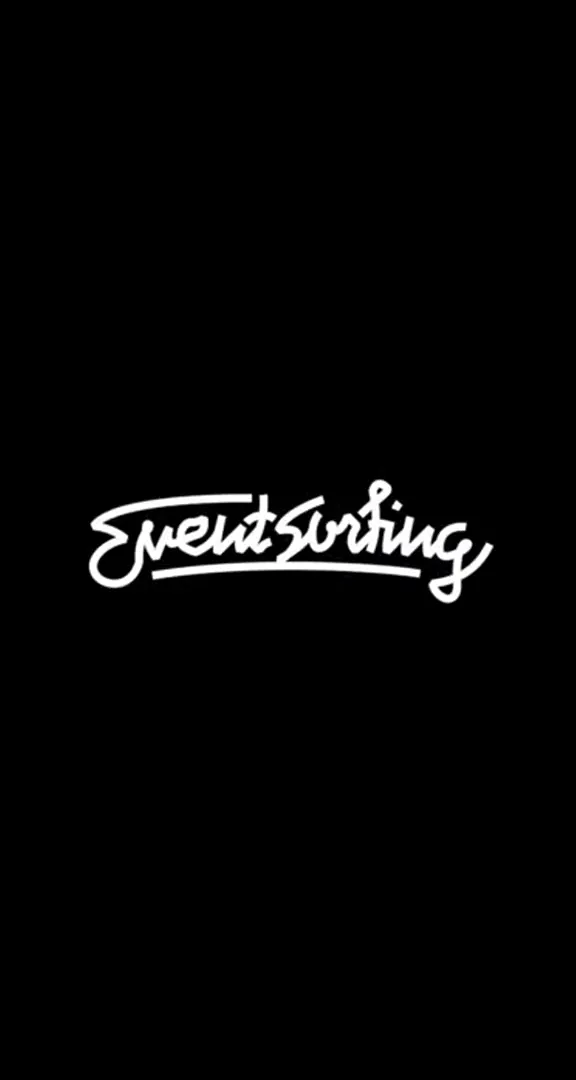
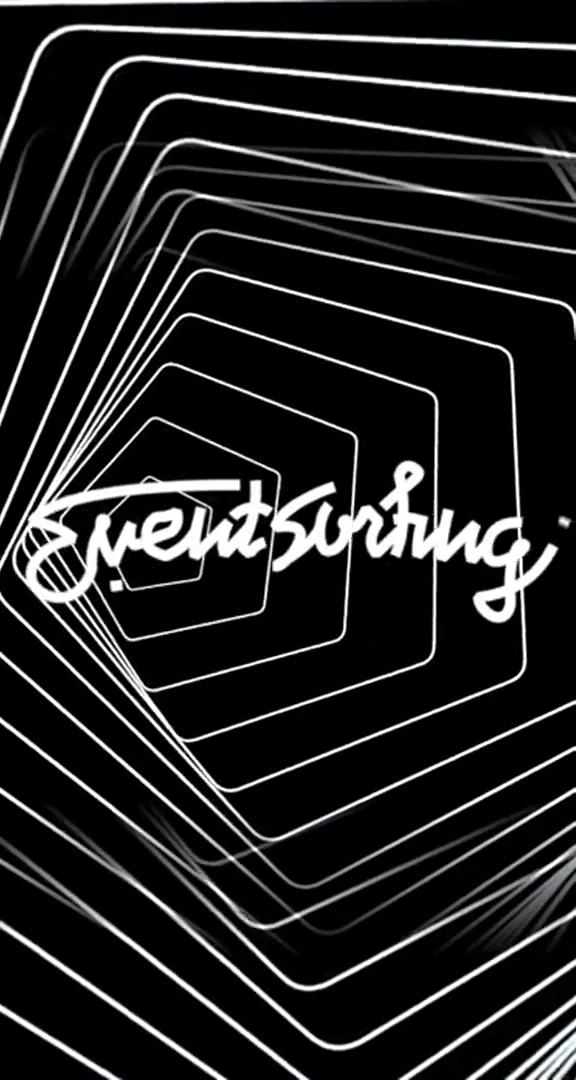
Mobile own projects aligned to grid guides; Event Surfing poster from a non-black frame
Claude-Session: https://claude.ai/code/session_01Ui3A1nAzCjVrxihjpar4Su

diff --git a/index.html b/index.html
@@ -21,7 +21,7 @@
 <link rel="preload" href="fonts/druk-wide-cyr-700.woff2" as="font" type="font/woff2" crossorigin>
 <link rel="preload" href="fonts/euclid-circular-a-400.woff2" as="font" type="font/woff2" crossorigin>
 <link rel="stylesheet" href="css/fonts.css?v=10">
-<link rel="stylesheet" href="css/style.css?v=61">
+<link rel="stylesheet" href="css/style.css?v=62">
 </head>
 <body>
 <div id="loader" aria-hidden="true"><div class="ld-mark"><svg class="ld-o" viewBox="802 818 314 283"><path fill-rule="nonzero" fill="currentColor" d="M 1099.386719 875.800781 C 1105.628906 875.800781 1110.707031 880.878906 1110.707031 887.121094 C 1110.707031 893.363281 1105.628906 898.441406 1099.386719 898.441406 C 1093.144531 898.441406 1088.066406 893.363281 1088.066406 887.121094 C 1088.066406 880.878906 1093.144531 875.800781 1099.386719 875.800781 M 1099.386719 901.269531 C 1107.1875 901.269531 1113.539062 894.921875 1113.539062 887.121094 C 1113.539062 879.320312 1107.1875 872.96875 1099.386719 872.96875 C 1091.585938 872.96875 1085.234375 879.320312 1085.234375 887.121094 C 1085.234375 894.921875 1091.585938 901.269531 1099.386719 901.269531 "/>
@@ -334,6 +334,6 @@
 
 <div class="toast" id="toast" role="status"></div>
 <script src="js/cases.js?v=17" defer></script>
-<script src="js/main.js?v=52" defer></script>
+<script src="js/main.js?v=53" defer></script>
 </body>
 </html>

diff --git a/css/style.css b/css/style.css
@@ -610,12 +610,12 @@ html.kbd .chips input:focus-visible+label{outline:2px solid var(--paper);outline
   .dir .vis{grid-column:1/-1;grid-row:3;margin-top:8px}
   .dir .card{grid-column:1/-1;grid-row:4;max-width:none;margin-right:0}
   .dir .vlink{display:none}
-  .own-grid{grid-template-columns:minmax(0,1fr) minmax(0,1fr);row-gap:28px}
+  .own-grid{grid-template-columns:repeat(3,minmax(0,1fr));row-gap:28px} /* 3 колонки = направляющие фона на телефоне */
   .own .card{grid-column:1/-1;max-width:none;margin-right:0}
-  .proj{grid-column:span 1;padding:0 6px 0 0}
-  .proj:nth-of-type(2){margin-top:72vw} /* разнесены по высоте: второй проект начинается под текстом первого */
-  .proj:nth-of-type(3){margin-top:120px}
-  .proj:nth-of-type(3){grid-column:1/-1;padding:0}
+  .proj{padding:0}
+  .proj:nth-of-type(1){grid-column:1/3}
+  .proj:nth-of-type(2){grid-column:2/4;margin-top:20px} /* лесенкой: со второй направляющей до правого края */
+  .proj:nth-of-type(3){grid-column:1/-1;margin-top:92px}
   .proj:nth-of-type(3) .vis{aspect-ratio:16/10}
   .row{grid-template-columns:40px minmax(0,1fr);row-gap:4px}
   .row .sb{grid-column:2}.row .tg{grid-column:2;justify-self:start}

diff --git a/js/main.js b/js/main.js
@@ -11,7 +11,7 @@ const cover=(k,seed=0)=>k.vid?`url(${k.vid.replace('.mp4','.webp')}) center/cove
 const BLOB={}; let ready=false;
 const HEVC=(()=>{try{return document.createElement('video').canPlayType('video/mp4; codecs="hvc1"')!==''}catch(e){return false}})(); // HEVC легче на ~30% при том же качестве; где не поддерживается — H.264
 const vurl=u=>HEVC?u.replace('.mp4','.hevc.mp4'):u; // видео скачиваются целиком при загрузке страницы и играют из памяти
-const vid=k=>k.vid&&!reduce?`<video class="cv" src="${BLOB[k.vid]||vurl(k.vid)}" poster="${k.vid.replace('.mp4','.webp')}" muted loop playsinline preload="metadata" aria-hidden="true"></video>`:'';
+const vid=k=>k.vid&&!reduce?`<video class="cv" src="${BLOB[k.vid]||vurl(k.vid)}" poster="${k.vid.replace('.mp4','.webp')}?v=2" muted loop playsinline preload="metadata" aria-hidden="true"></video>`:'';
 const playIn=(el,on)=>{const v=el&&el.querySelector('video.cv');if(!v)return;if(on){if(!ready)return;v.preload='auto';v.play().catch(()=>{});}else v.pause();};
 
 /* ---------- hero ---------- */
